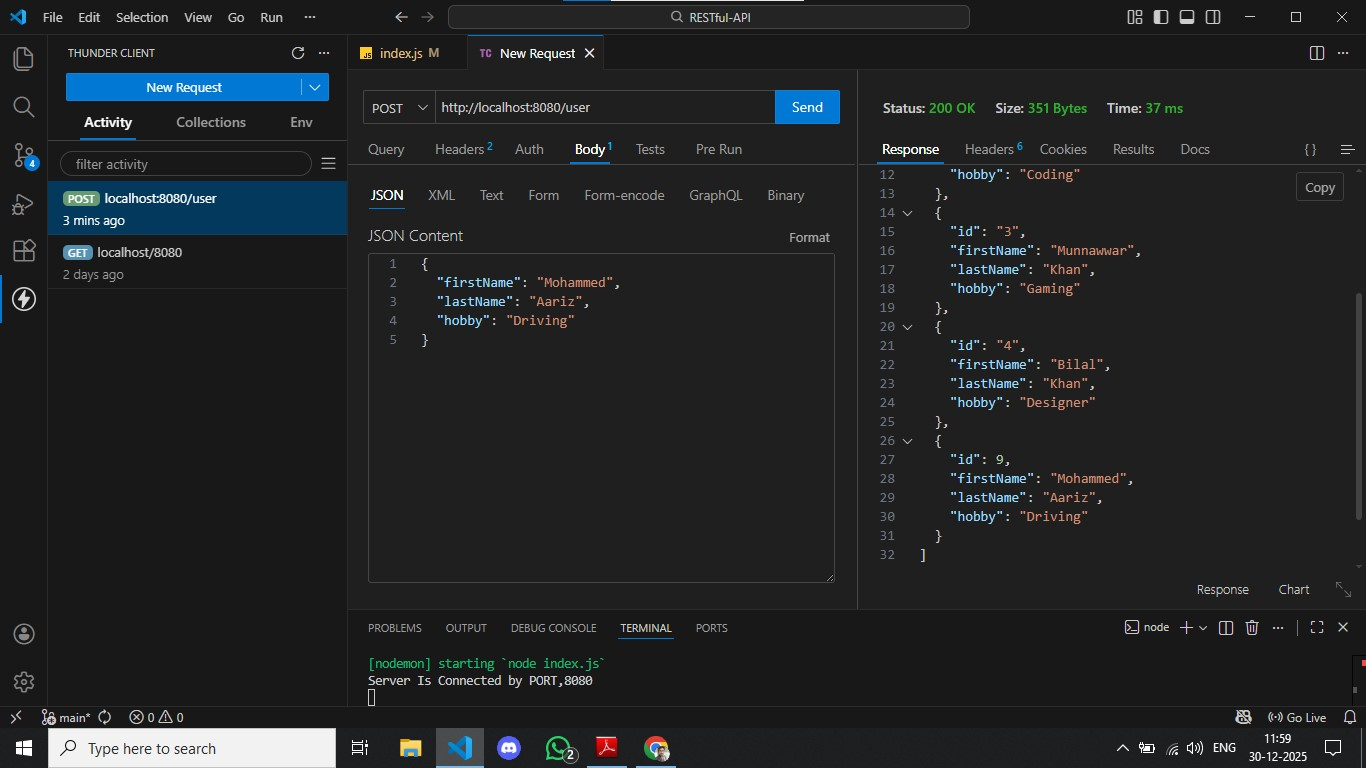
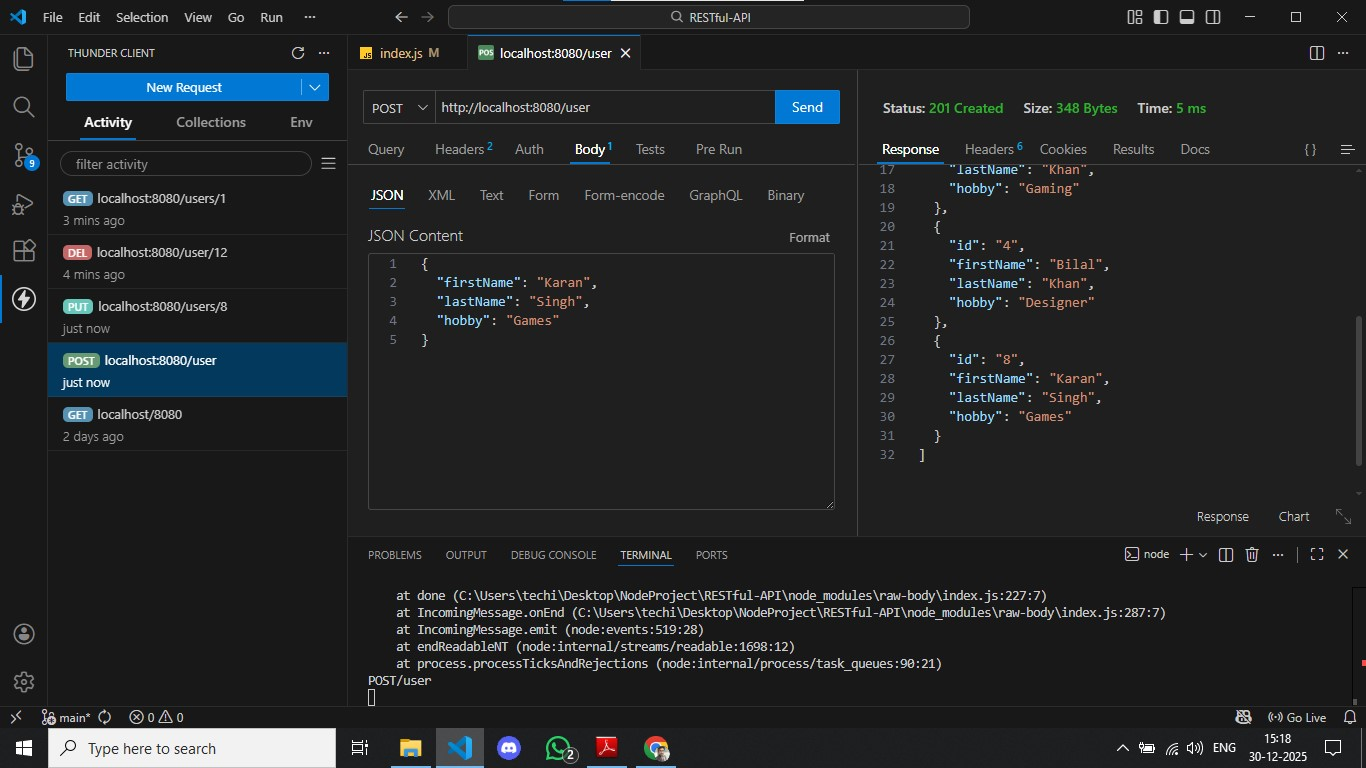
fixing delete method

diff --git a/index.js b/index.js
@@ -3,11 +3,29 @@ import express from "express";
 const app = express();
 const port = 8080;
 
+// Server
 app.listen(port, () => {
   console.log(`Server Is Connected by PORT,${port}`);
 });
-//for passing the json data this is middleware
+
+//Middleware
+//for parse the json data this is middleware
 app.use(express.json());
+
+app.use((req,res,next)=>{
+  console.log(`${req.method}${req.url}`);
+  next();
+});
+
+//Validate middleware
+const validateUser = (req,res,next)=>{
+  const {firstName,lastName,hobby} = req.body;
+
+  if(!firstName||!lastName||!hobby){
+    return res.status(400).json({message: "firstName,lastName,hobby must be required"})
+  }
+  next();
+}
 
 // Data Source //
 const users = [
@@ -39,11 +57,11 @@ const users = [
 
 // Routes //
 app.get("/", (req, res) => {
-  res.send("Hello from server.");
+  res.status(200).send("Hello from server.");
 });
 //Fetching user data
 app.get("/users", (req, res) => {
-  res.send(users);
+  res.status(200).json(users);
 });
 
 //Fetching details of a specific user by ID
@@ -58,22 +76,22 @@ app.get("/users/:id", (req, res) => {
 });
 
 //Add New User
-app.post("/user", (req, res) => {
+app.post("/user", validateUser, (req, res) => {
   const { firstName, lastName, hobby } = req.body;
 
   const newUser = {
-    id: Math.floor(Math.random() * 10), //math.floor use for remove decimals.
+    id: Math.floor(Math.random()*10).toString(),
     firstName: firstName,
     lastName: lastName,
     hobby: hobby,
   };
 
   users.push(newUser);
-  res.send(users);
+  res.status(201).json(users);
 });
 
 //Update User or any data
-app.put("/user/:id", (req, res) => {
+app.put("/user/:id",validateUser, (req, res) => {
   const userId = req.params.id;
 
   const user = users.find((user) => user.id == userId);
@@ -89,19 +107,18 @@ app.put("/user/:id", (req, res) => {
     user[key] = req.body[key]; //updating the keys
   });
 
-  res.send(users)
+  res.status(200).json(users);
 });
 
 // Deleting any user by its id.
-app.delete("/user/:id",(req,res)=>{
-    const userId = req.params.id;
+app.delete("/user/:id", (req, res) => {
+  const index = users.findIndex(user => user.id === req.params.id);
 
-    const user = users.find((user=>user.id == userId));
+  if (index === -1) {
+    return res.status(404).json({ message: "User Not Found" });
+  }
 
-    if(!user){
-        return res.status(404).json({message: "User Not Found"});
-    };
-    const filterUser = users.filter((user)=>user.id != userId);
+  users.splice(index, 1);
+  res.status(200).json({ message: "User deleted successfully" });
+});
 
-    res.send(filterUser);
-})
